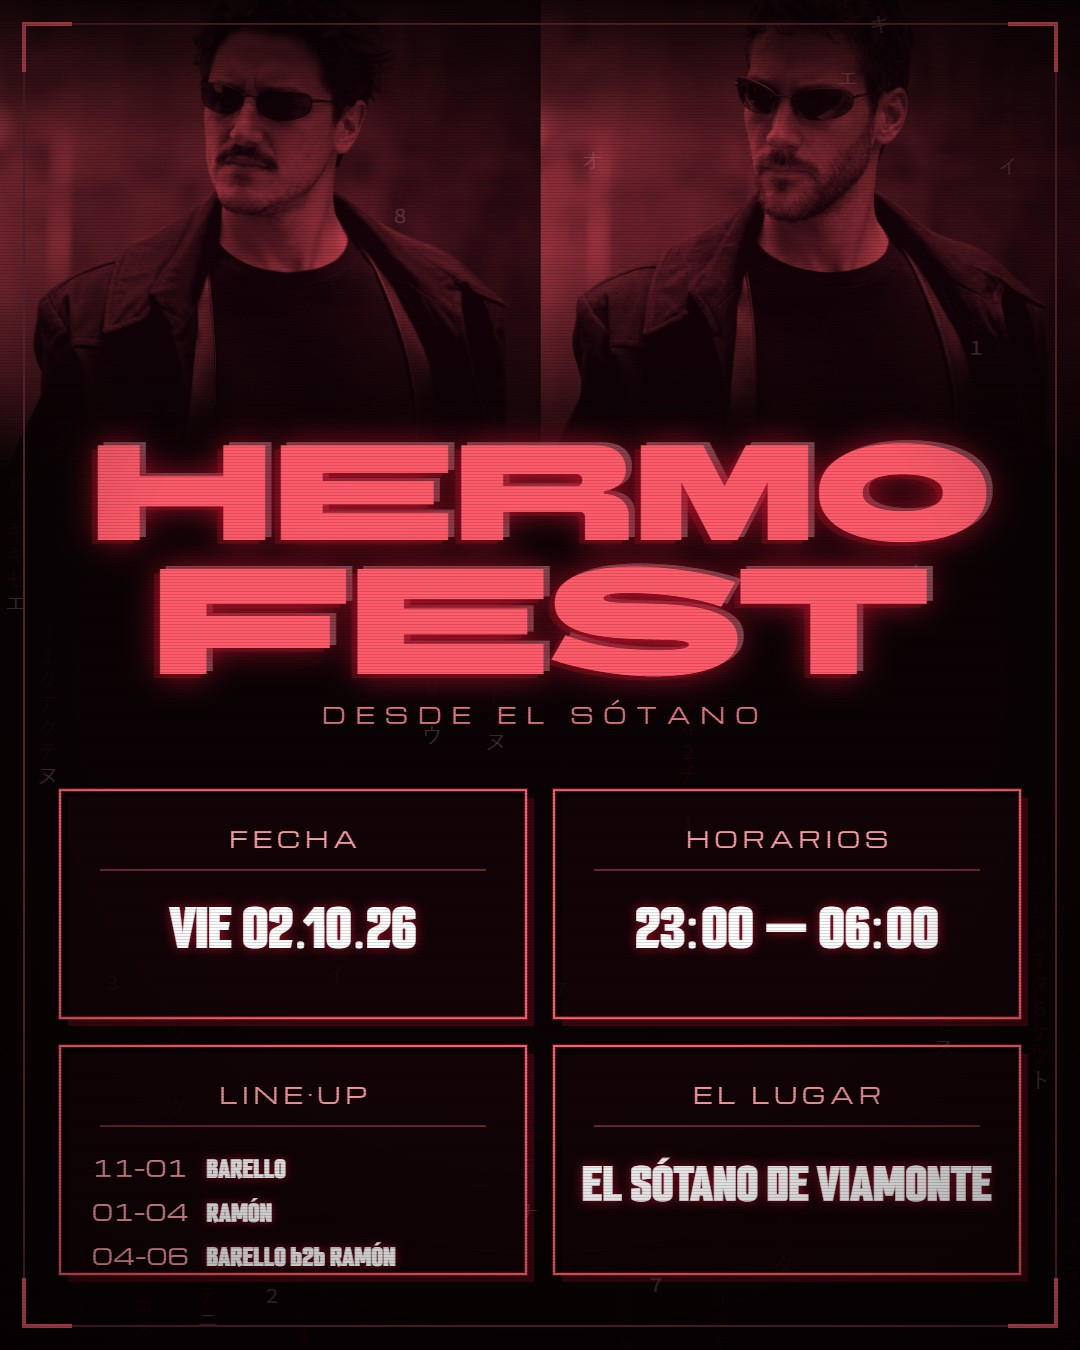
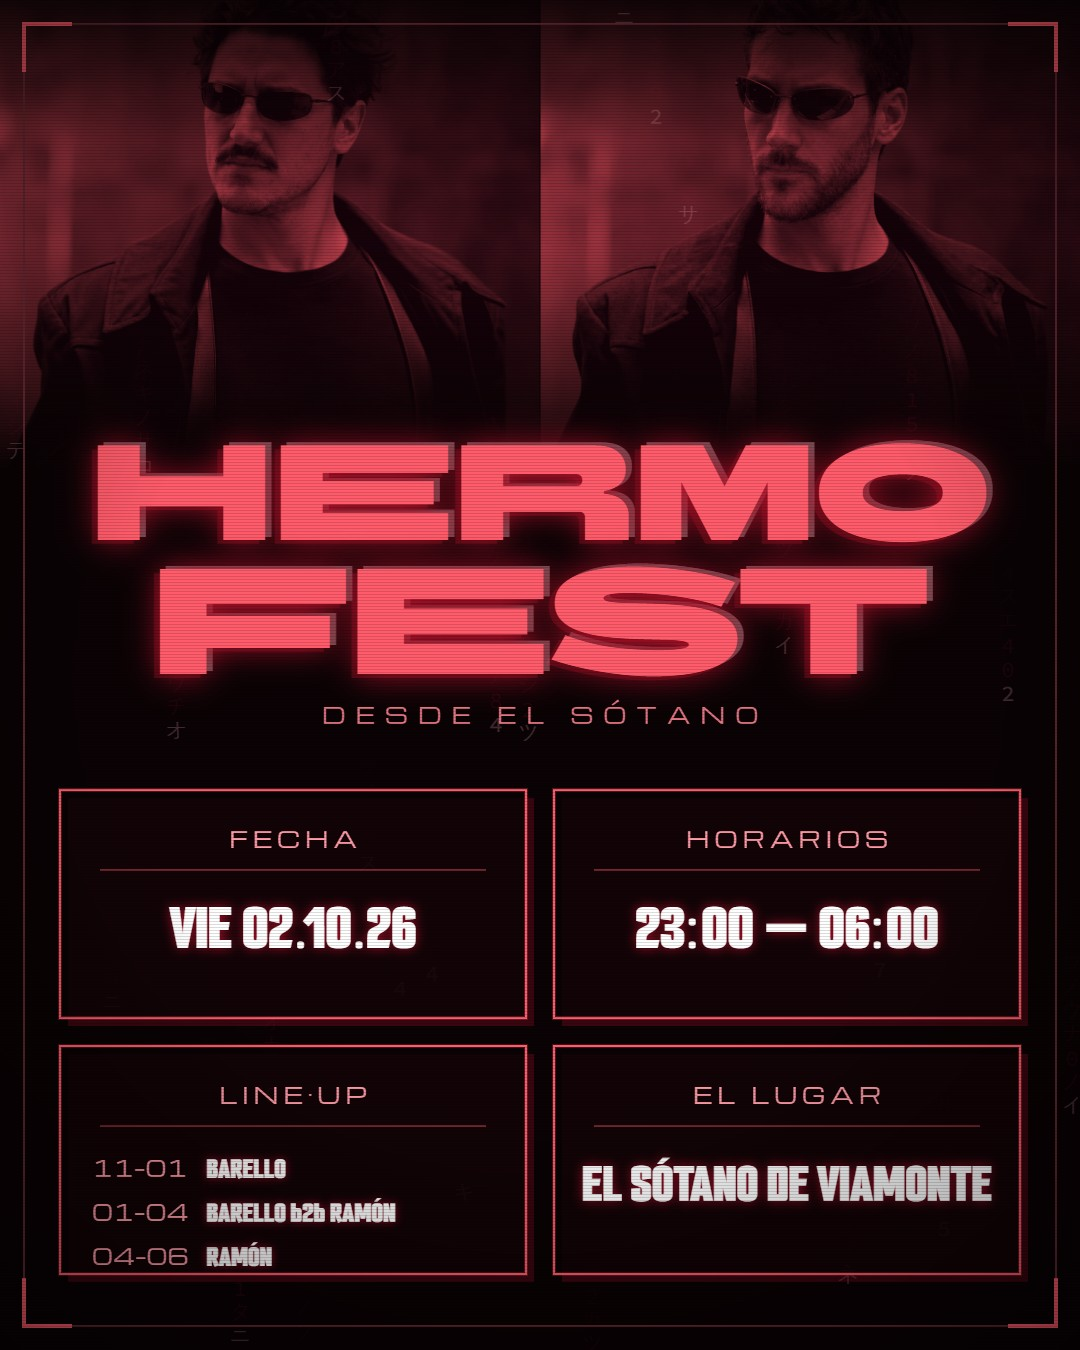
Line-up reordenado: Barello, Barello b2b Ramon, Ramon (landing y flyer)

Changed region(s): [[0.2139, 0.8711, 0.3667, 0.9644]]

diff --git a/index.html b/index.html
@@ -439,8 +439,8 @@
     <div class="sheet__tag"><span>Line-up <em>///</em> la cabina</span><button class="sheet__close" type="button" aria-label="Cerrar"></button></div>
     <ul class="lineup">
       <li><span class="lu-time">11 – 01</span><span class="lu-act">Barello</span></li>
-      <li><span class="lu-time">01 – 04</span><span class="lu-act">Ramón</span></li>
-      <li><span class="lu-time">04 – 06</span><span class="lu-act">Barello <em>b2b</em> Ramón</span></li>
+      <li><span class="lu-time">01 – 04</span><span class="lu-act">Barello <em>b2b</em> Ramón</span></li>
+      <li><span class="lu-time">04 – 06</span><span class="lu-act">Ramón</span></li>
     </ul>
   </div>
   <div class="sheet sheet--date" data-panel="date" role="dialog" aria-label="Fecha" aria-modal="true">
